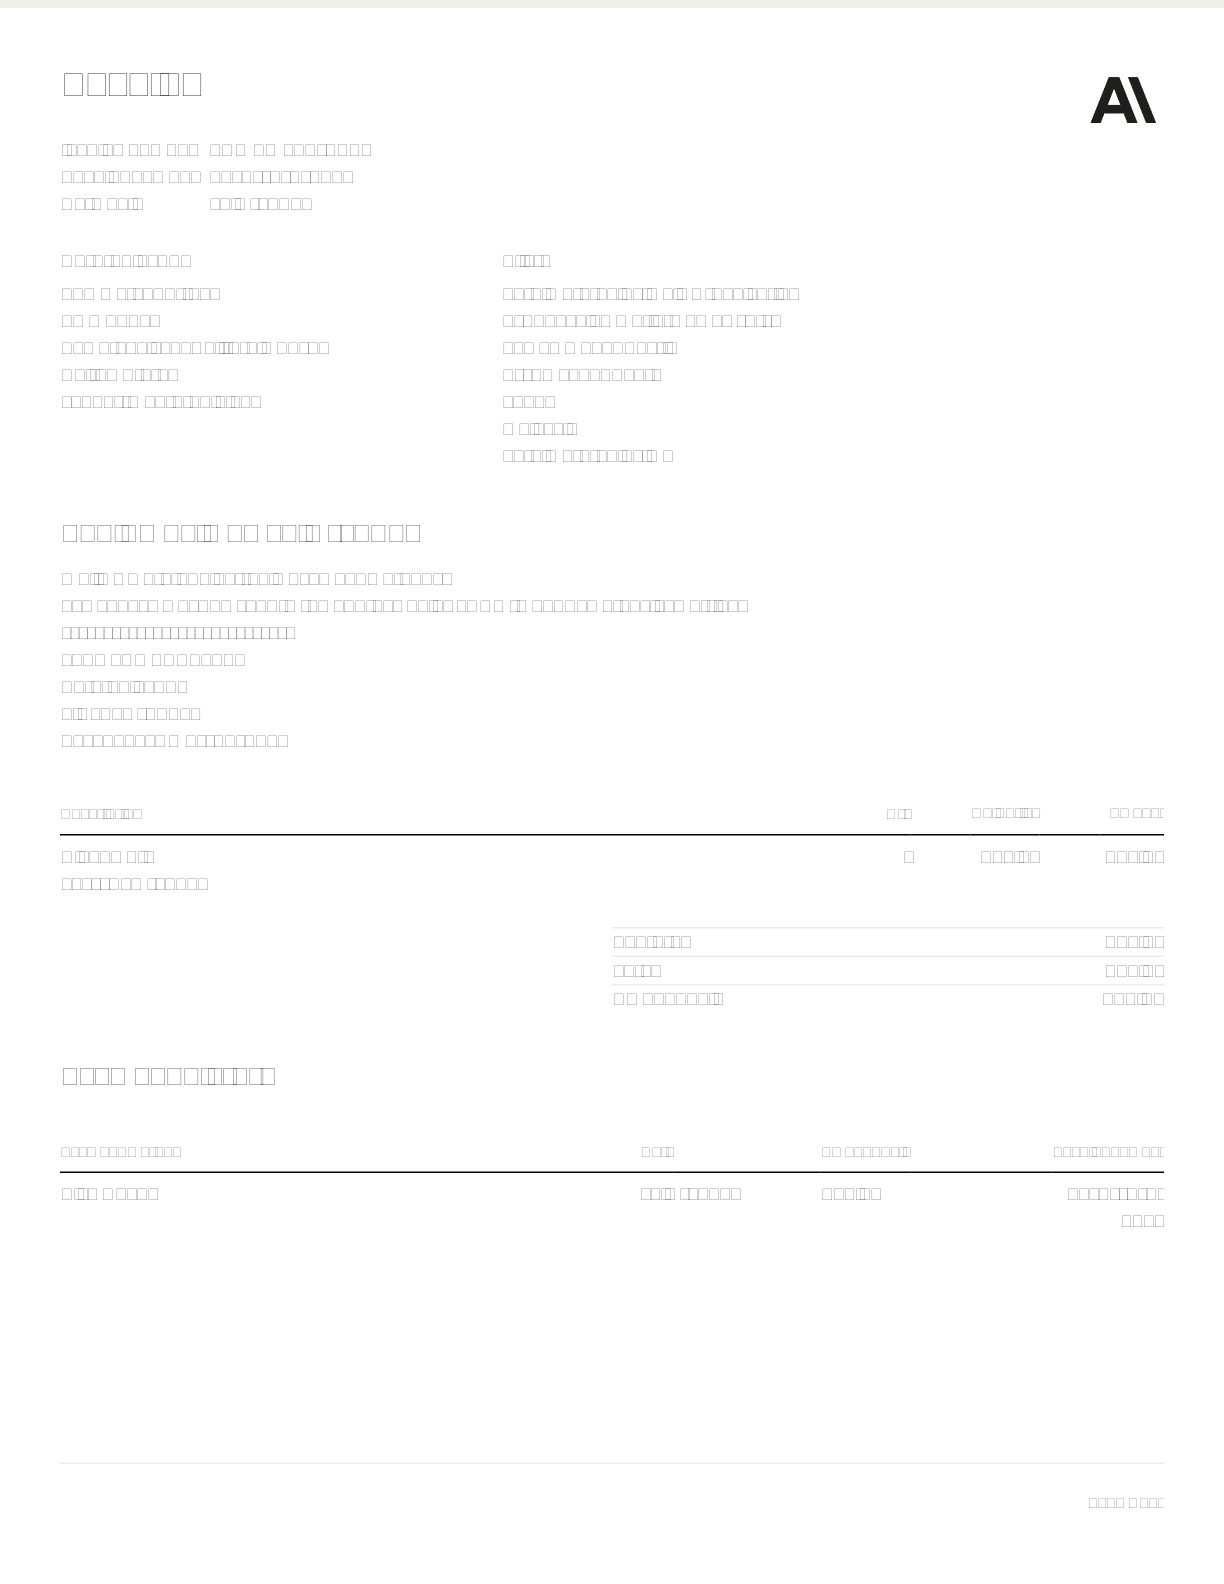
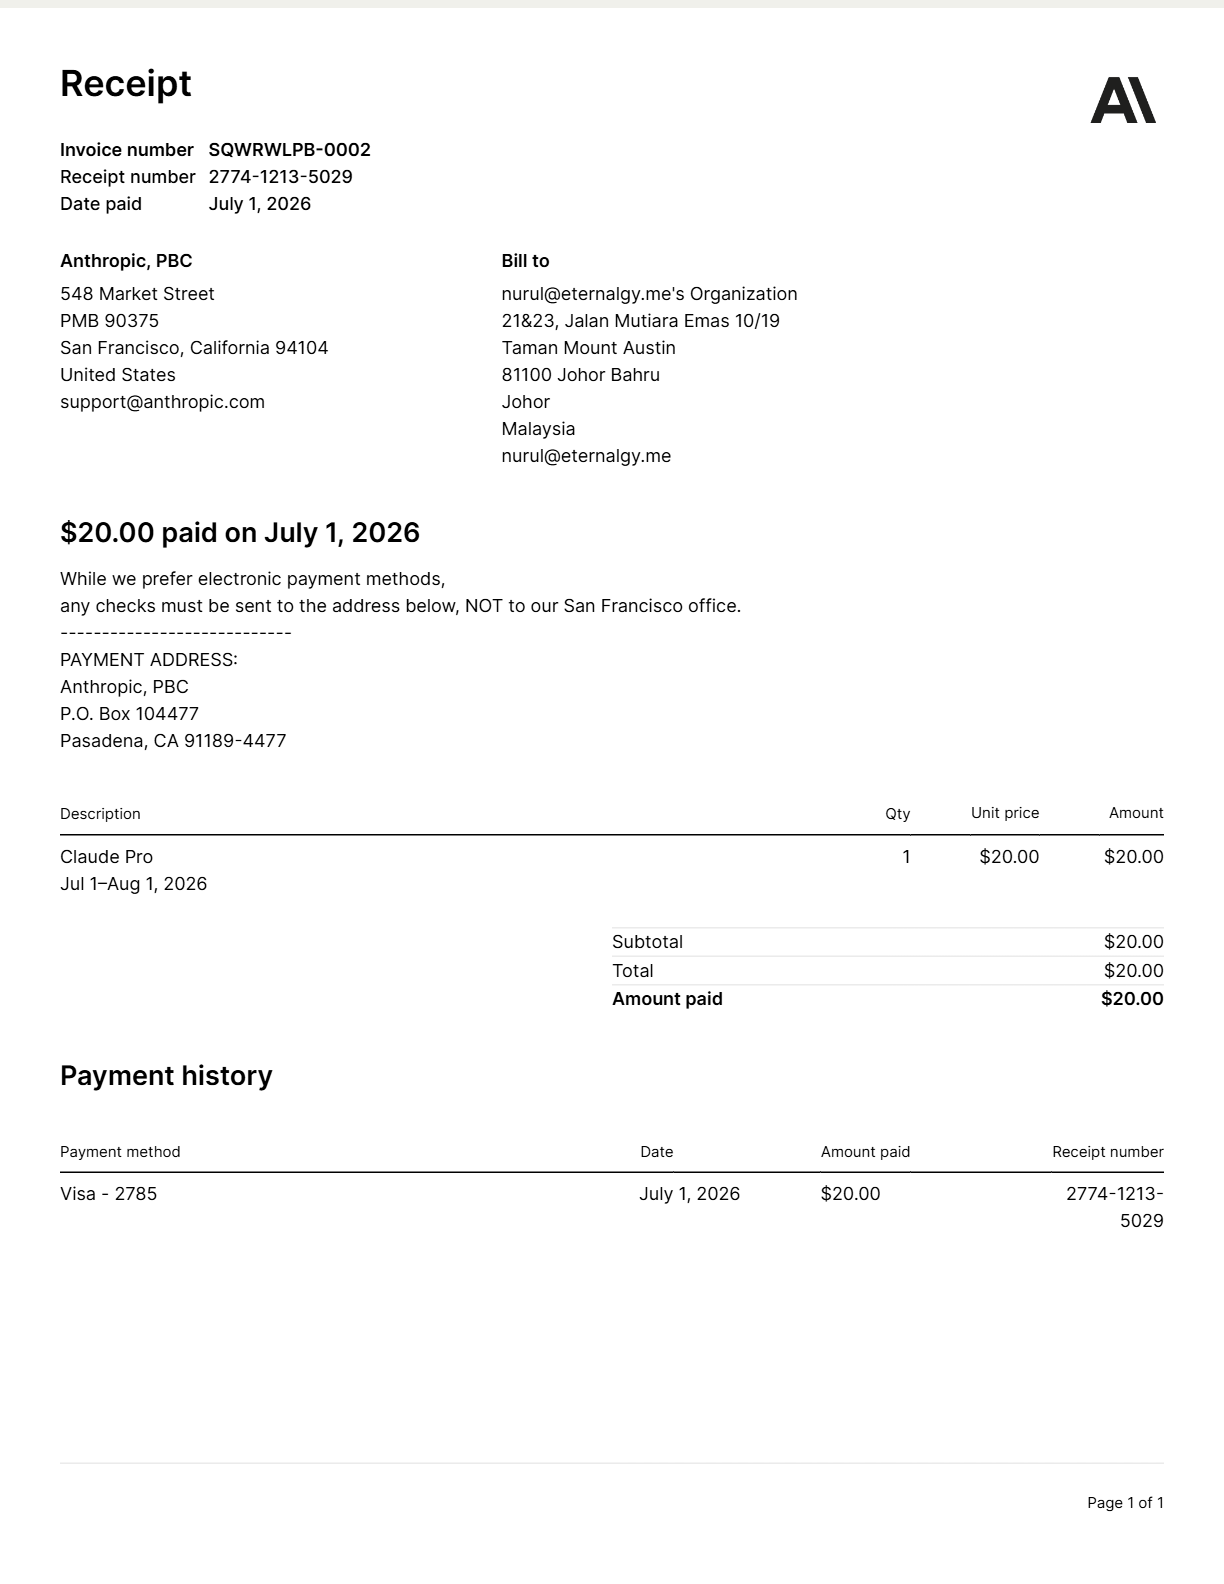
Fix tofu text in receipt images; render via Chrome/pdf.js
The napi-canvas renderer showed non-embedded standard fonts as empty
boxes. Re-rendered every receipt PDF through Chrome + pdf.js so glyphs
draw correctly. Taobao now includes all 6 pages (order screenshots +
itemised breakdown) instead of just the summary page.

diff --git a/gan-jun-jul/claim-jun-jul-2026.html b/gan-jun-jul/claim-jun-jul-2026.html
@@ -458,7 +458,7 @@
             "2026-07-14_Bubble_StarterWebPlan_USD32.00.pdf": ["receipts-img/2026-07-14_Bubble_StarterWebPlan_USD32.00.png"],
             "2026-07-16_Anthropic_Max5x_USD96.21.pdf":       ["receipts-img/2026-07-16_Anthropic_Max5x_USD96.21-p1.png", "receipts-img/2026-07-16_Anthropic_Max5x_USD96.21-p2.png"],
             "2026-07-19_Namecheap_Domain_USD18.68.pdf":      ["receipts-img/2026-07-19_Namecheap_Domain_USD18.68.png"],
-            "taobao-claim-review.pdf":                       ["receipts-img/taobao-claim-review-p6.png"]
+            "taobao-claim-review.pdf":                       ["receipts-img/taobao-claim-review-p1.png", "receipts-img/taobao-claim-review-p2.png", "receipts-img/taobao-claim-review-p3.png", "receipts-img/taobao-claim-review-p4.png", "receipts-img/taobao-claim-review-p5.png", "receipts-img/taobao-claim-review-p6.png"]
         };
         claimsData.forEach(c => { c.images = receiptImages[c.file] || []; });
 
